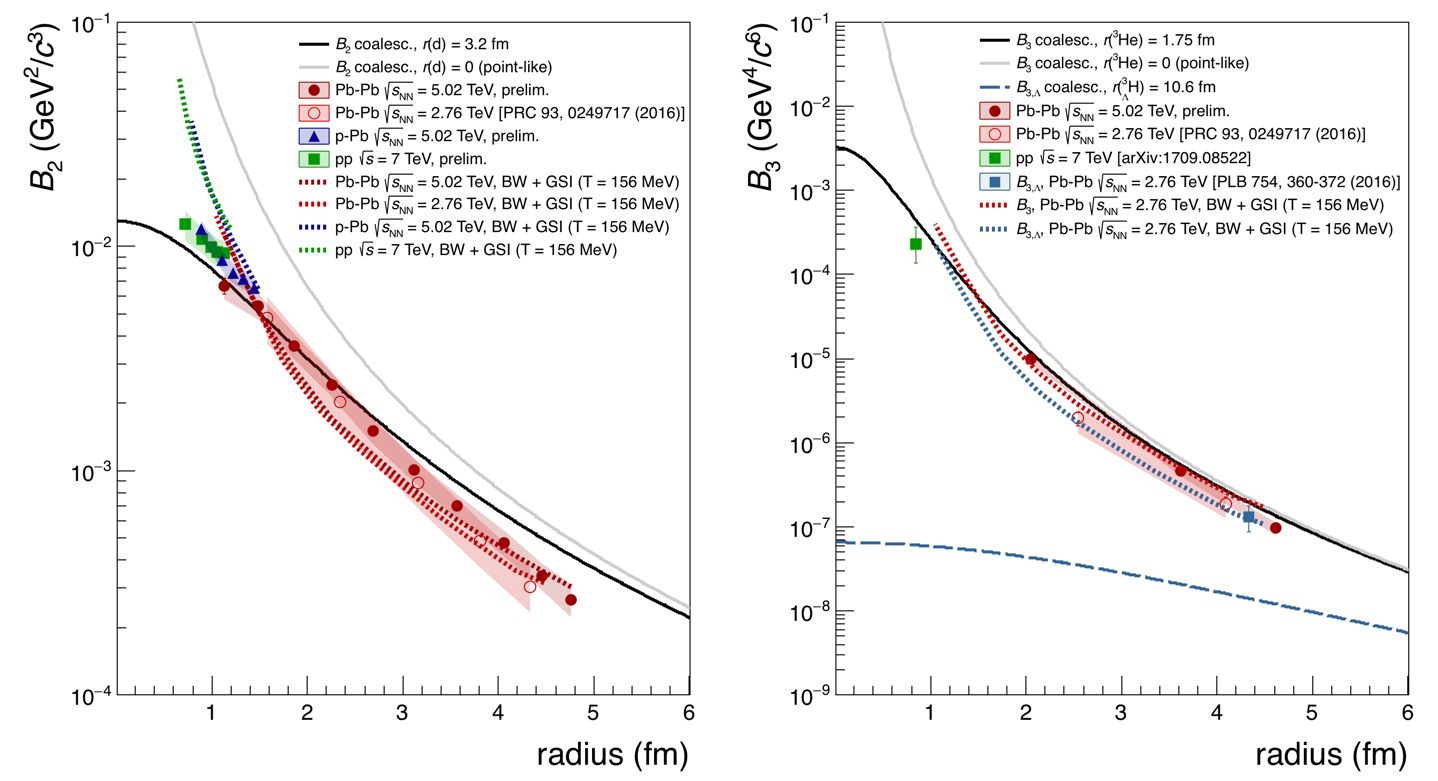
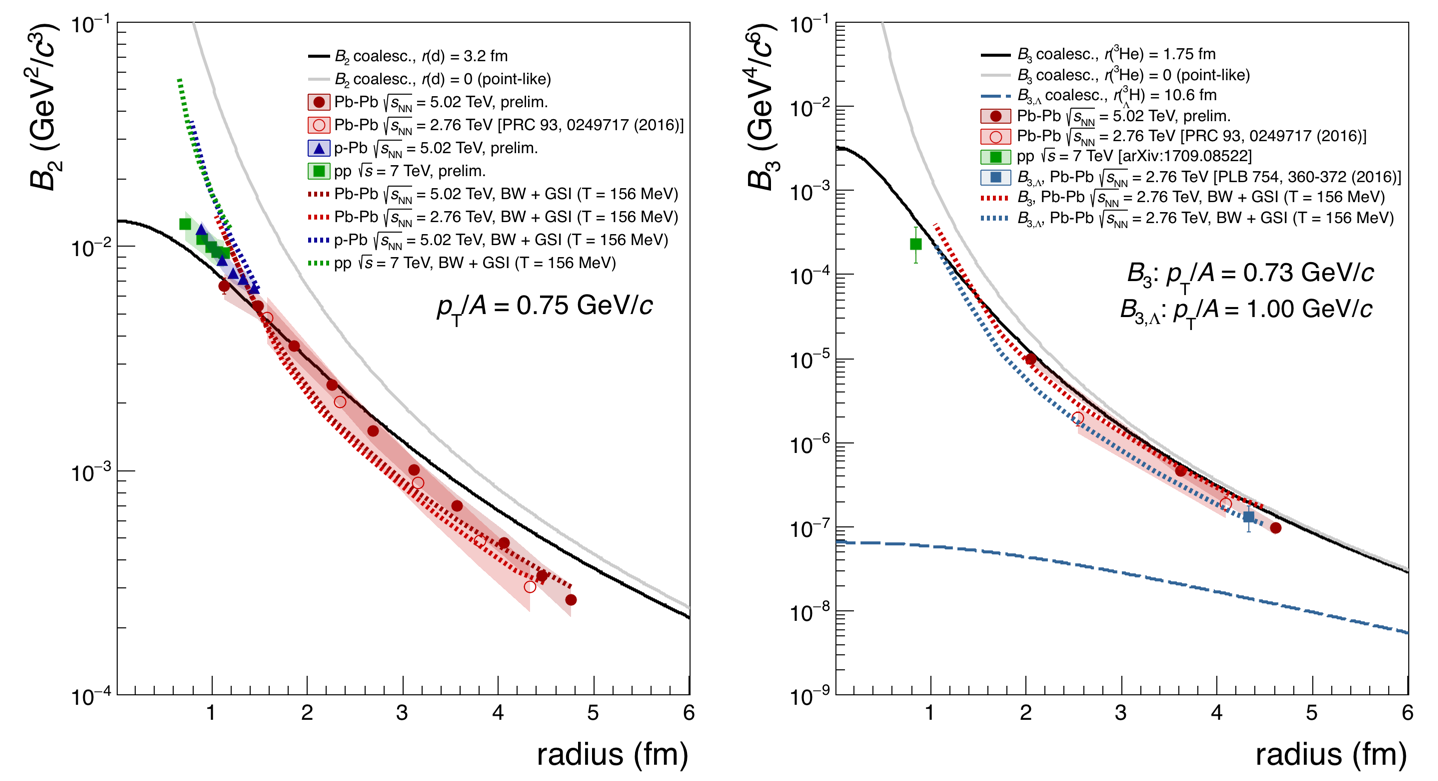
Update for Frascati talk.

Changed region(s): [[0.1836, 0.0307, 0.4896, 0.3995], [0.6732, 0.0307, 0.9791, 0.3073], [0.765, 0.338, 0.9485, 0.4302]]

diff --git a/FrascatiPlot/B2vsVolume.C b/FrascatiPlot/B2vsVolume.C
@@ -189,11 +189,29 @@ Int_t B2vsVolume(Bool_t plotLinX = 1, Double_t pToA = 0.75, Double_t pToAb3 = 0.
   hframe3->GetYaxis()->SetTitleSize(0.05);
   if (plotLinX) hframe3->GetXaxis()->SetRangeUser(0.01, 8.5);
   else  hframe3->GetXaxis()->SetRangeUser(0.1, 10.5);
-  
+
+  TPaveText * pavept = new TPaveText(0.55, 0.55, 0.95, 0.6, "NDC");
+  pavept->SetFillStyle(0);
+  pavept->SetTextFont(42);
+  pavept->SetBorderSize(0);
+  pavept->AddText(Form("#it{p}_{T}/#it{A} = %3.2f GeV/#it{c}", pToA));
+
+  TPaveText * paveptB3 = new TPaveText(0.55, 0.62, 0.95, 0.67, "NDC");
+  paveptB3->SetFillStyle(0);
+  paveptB3->SetTextFont(42);
+  paveptB3->SetBorderSize(0);
+  paveptB3->AddText(Form("#it{B}_{3}: #it{p}_{T}/#it{A} = %3.2f GeV/#it{c}", pToAb3));
+
+  TPaveText * paveptB3L = new TPaveText(0.55, 0.55, 0.95, 0.6, "NDC");
+  paveptB3L->SetFillStyle(0);
+  paveptB3L->SetBorderSize(0);
+  paveptB3L->SetTextFont(42);
+  paveptB3L->AddText(Form("#it{B}_{3,#Lambda}: #it{p}_{T}/#it{A} = %3.2f GeV/#it{c}", pToAb3Lambda));
+
   //Legends
   int nl = 10;
   TLegend * legB2;
-  if (plotLinX) legB2 = new TLegend(0.35, 0.95-nl*0.03, 0.6, 0.95);
+  if (plotLinX) legB2 = new TLegend(0.42, 0.95-nl*0.03, 0.6, 0.95);
   else legB2 = new TLegend(0.2, 0.15, 0.55, 0.15+nl*0.03);
   legB2->SetFillStyle(0);
   legB2->SetTextSize(0.035);
@@ -221,12 +239,12 @@ Int_t B2vsVolume(Bool_t plotLinX = 1, Double_t pToA = 0.75, Double_t pToAb3 = 0.
   legB3->SetTextSize(0.025);
   legB3->AddEntry(hB3_coalescence, "#it{B}_{3} coalesc., #it{r}(^{3}He) = 1.75 fm", "l");
   legB3->AddEntry(hB3_coalescence_pointlike, "#it{B}_{3} coalesc., #it{r}(^{3}He) = 0 (point-like)", "l");
-  legB3->AddEntry(hB3L_coalescence, "#it{B}_{3,#Lambda} coalesc., #it{r}(^{3}_{#Lambda}H) = 10.6 fm", "l");
   legB3->AddEntry(gB3vsR_PbPb5TeV_sys, "Pb-Pb #sqrt{#it{s}_{NN}} = 5.02 TeV, prelim.", "pf");
   legB3->AddEntry(gB3vsR_PbPb276TeV_sys, "Pb-Pb #sqrt{#it{s}_{NN}} = 2.76 TeV [PRC 93, 0249717 (2016)]", "pf");
   legB3->AddEntry(gB3vsR_pp7TeV_sys, "pp #sqrt{#it{s}} = 7 TeV [arXiv:1709.08522]", "pf");
-  legB3->AddEntry(gB3LambdavsR_PbPb276TeV_sys, "#it{B}_{3,#Lambda}, Pb-Pb #sqrt{#it{s}_{NN}} = 2.76 TeV [PLB 754, 360-372 (2016)]", "pf");
   legB3->AddEntry(gBlastB3vsR_PbPb276TeV, "#it{B}_{3}, Pb-Pb #sqrt{#it{s}_{NN}} = 2.76 TeV, BW + GSI (T = 156 MeV)", "l");
+  legB3->AddEntry(hB3L_coalescence, "#it{B}_{3,#Lambda} coalesc., #it{r}(^{3}_{#Lambda}H) = 10.6 fm", "l");
+  legB3->AddEntry(gB3LambdavsR_PbPb276TeV_sys, "#it{B}_{3,#Lambda}, Pb-Pb #sqrt{#it{s}_{NN}} = 2.76 TeV [PLB 754, 360-372 (2016)]", "pf");
   legB3->AddEntry(gBlastB3LambdavsR_PbPb276TeV, "#it{B}_{3,#Lambda}, Pb-Pb #sqrt{#it{s}_{NN}} = 2.76 TeV, BW + GSI (T = 156 MeV)", "l");
 
   cb2->Divide(2,1);
@@ -251,6 +269,7 @@ Int_t B2vsVolume(Bool_t plotLinX = 1, Double_t pToA = 0.75, Double_t pToAb3 = 0.
   gB2vsR_PbPb276TeV_sys->Draw("p3");
   gB2vsR_PbPb276TeV->Draw("samep");
   legB2->Draw();
+  pavept->Draw();
 
   //plot B3
   cb2->cd(2);
@@ -271,6 +290,8 @@ Int_t B2vsVolume(Bool_t plotLinX = 1, Double_t pToA = 0.75, Double_t pToAb3 = 0.
   gBlastB3vsR_PbPb276TeV->Draw("samel");
   gBlastB3LambdavsR_PbPb276TeV->Draw("samel");
   legB3->Draw();
+  paveptB3->Draw();
+  paveptB3L->Draw();
 
   //--------------------
   //Alternative plotting with legends on the side -- B2
@@ -312,10 +333,12 @@ Int_t B2vsVolume(Bool_t plotLinX = 1, Double_t pToA = 0.75, Double_t pToAb3 = 0.
   cb2opta->Divide(2,1);
   cb2opta->cd(1);
   gPad->SetLogy();
+  pavept->Draw();
   if (!plotLinX) gPad->SetLogx();
   hframe->Draw();
   hB2_coalescence->Draw("l");
   hB2_coalescence_pointlike->Draw("lsame");
+  
   gBlastB2vsR_PbPb276TeV->Draw("samel");
   gBlastB2vsR_PbPb502TeV->Draw("samel");
   gBlastB2vsR_pPb502TeV->Draw("samel");
@@ -328,7 +351,7 @@ Int_t B2vsVolume(Bool_t plotLinX = 1, Double_t pToA = 0.75, Double_t pToAb3 = 0.
   gB2vsR_PbPb5TeV->Draw("samep");
   gB2vsR_PbPb276TeV_sys->Draw("p3");
   gB2vsR_PbPb276TeV->Draw("samep");
-
+  pavept->Draw();
   cb2opta->cd(2);
   legB2data->Draw();
   legB2coal->Draw();
@@ -372,22 +395,25 @@ Int_t B2vsVolume(Bool_t plotLinX = 1, Double_t pToA = 0.75, Double_t pToAb3 = 0.
   
   cb3opta->Divide(2,1);
   cb3opta->cd(1);
+  paveptB3->Draw();
+
   gPad->SetLogy();
   if (!plotLinX)  gPad->SetLogx();
   hframe3->Draw();
+  paveptB3->Draw();
   hB3_coalescence->Draw("l");
   hB3_coalescence_pointlike->Draw("lsame");
-  hB3L_coalescence->Draw("lsame");
+  //hB3L_coalescence->Draw("lsame");
   gBlastB3vsR_PbPb276TeV->Draw("samel");
-  gBlastB3LambdavsR_PbPb276TeV->Draw("samel");
+  //gBlastB3LambdavsR_PbPb276TeV->Draw("samel");
   gB3vsR_PbPb5TeV_sys->Draw("p3");
   gB3vsR_PbPb5TeV->Draw("samep");
   gB3vsR_PbPb276TeV_sys->Draw("samep3");
   gB3vsR_PbPb276TeV->Draw("samep");
   gB3vsR_pp7TeV_sys->Draw("samep2");
   gB3vsR_pp7TeV->Draw("samep");
-  gB3LambdavsR_PbPb276TeV_sys->Draw("samep2");
-  gB3LambdavsR_PbPb276TeV->Draw("samep");
+  // gB3LambdavsR_PbPb276TeV_sys->Draw("samep2");
+  // gB3LambdavsR_PbPb276TeV->Draw("samep");
 
 
   cb3opta->cd(2);
